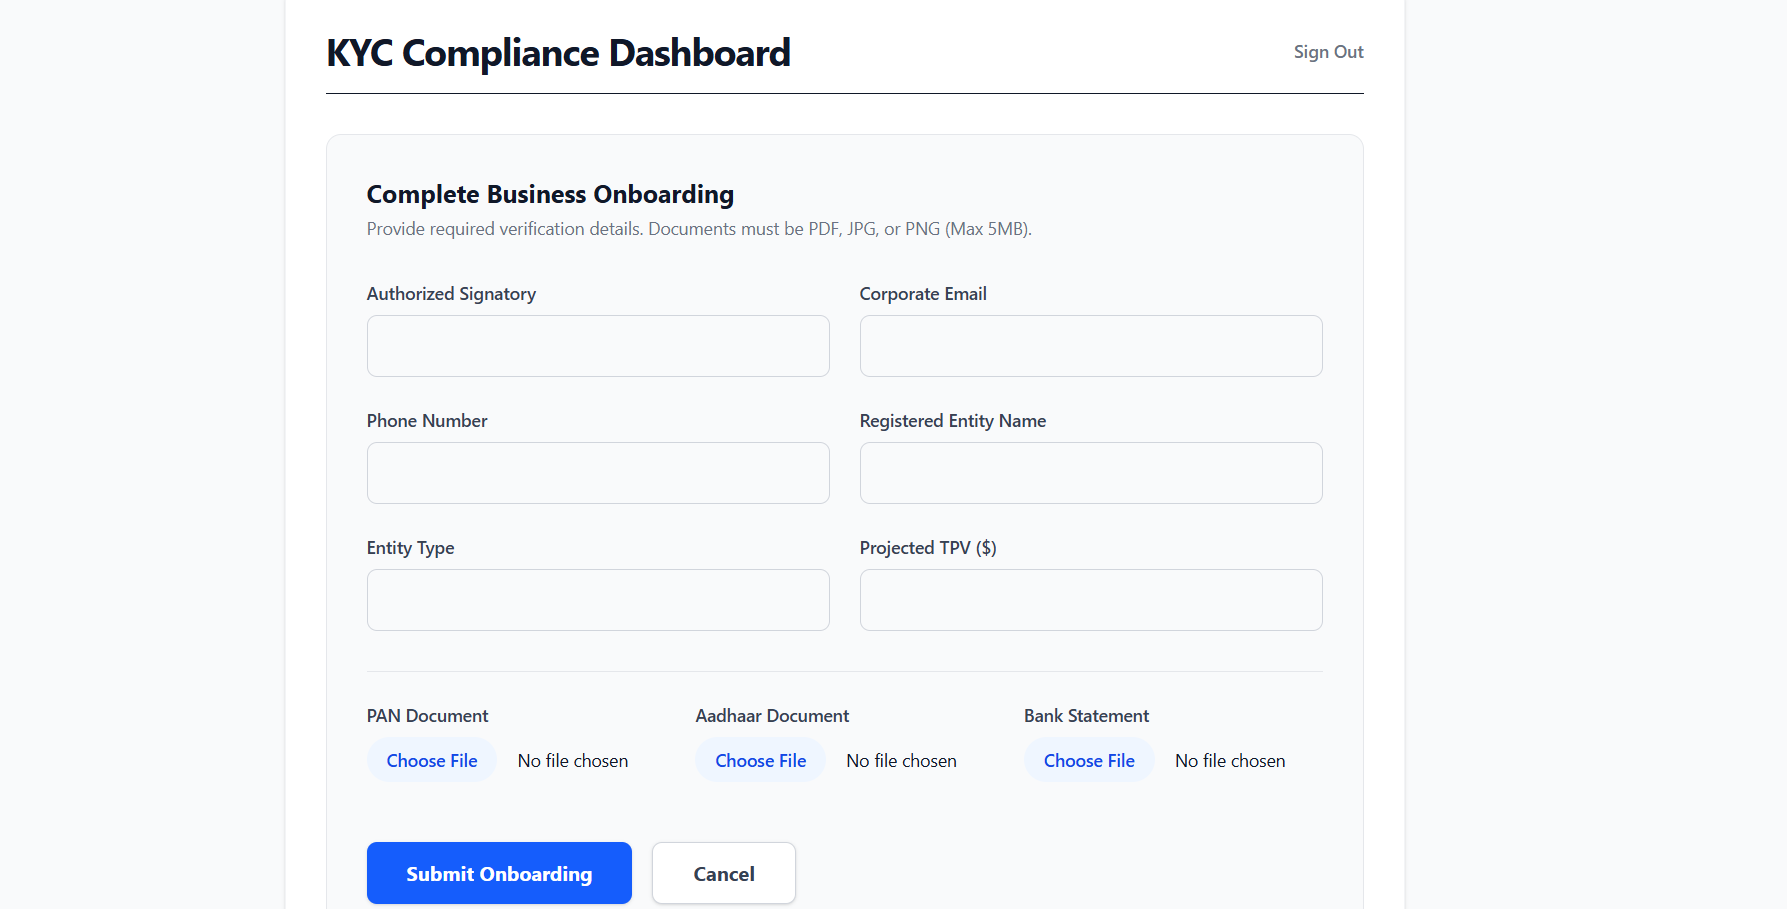
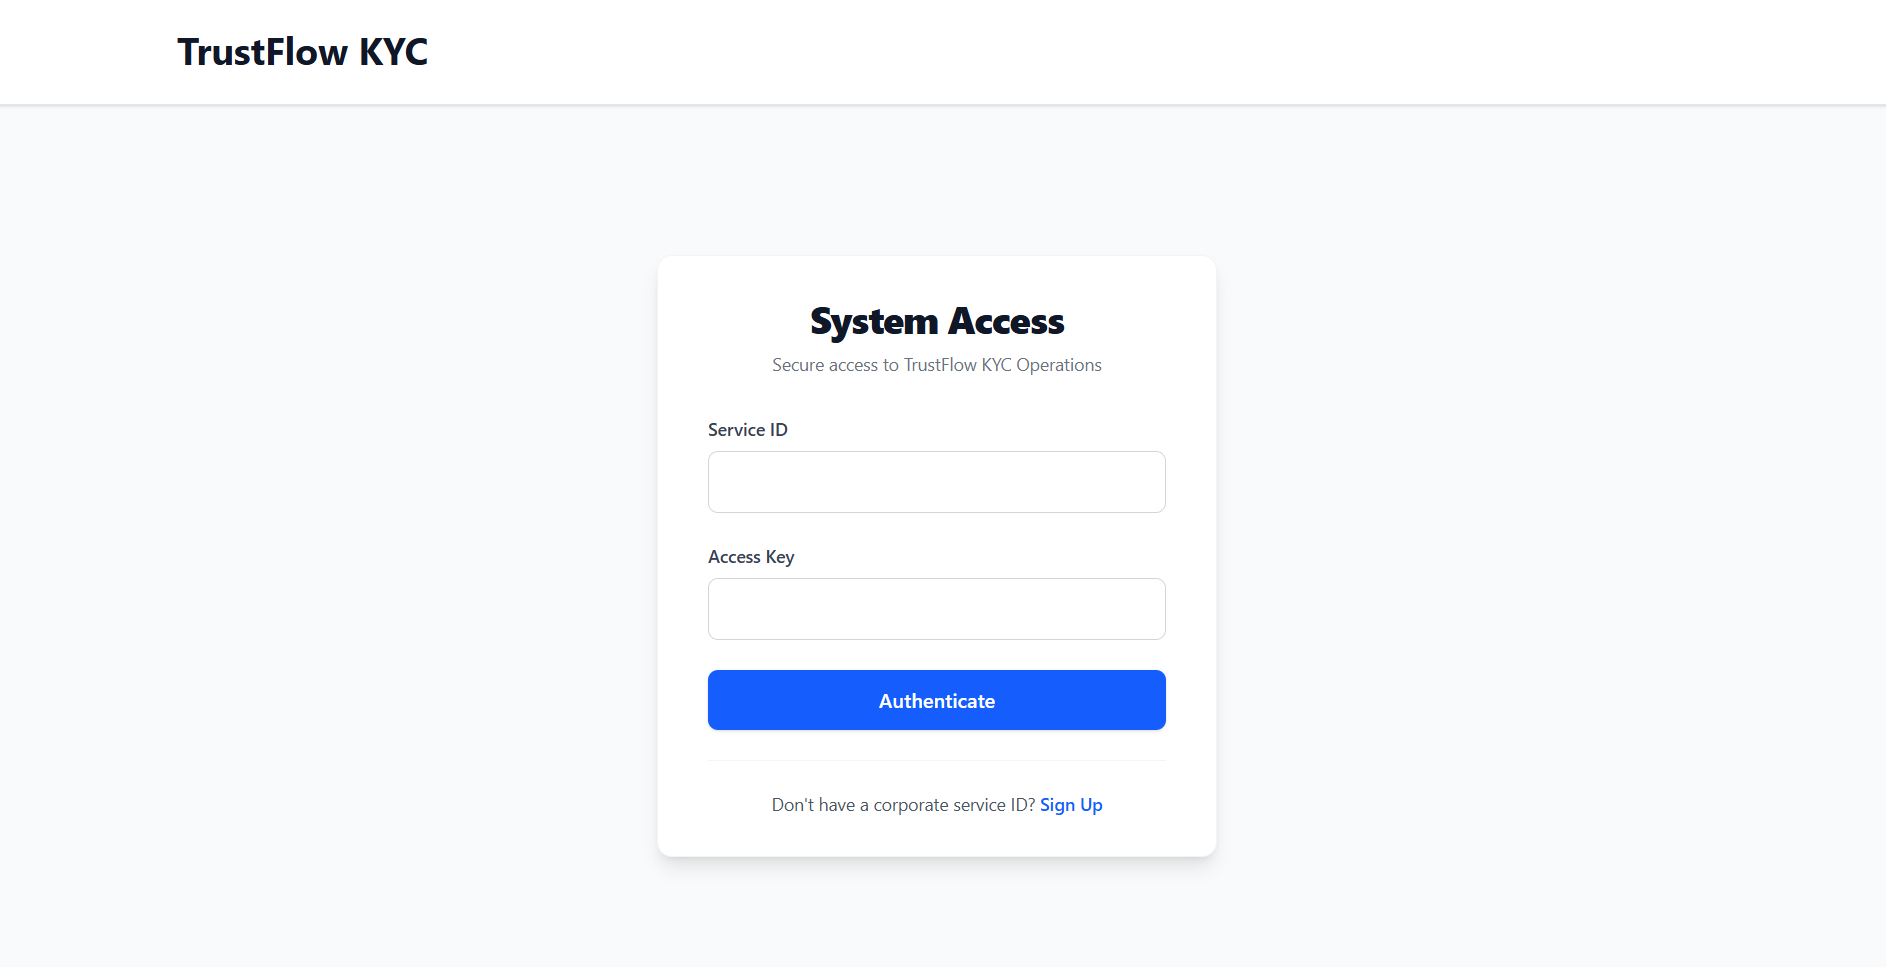
Updated the KYC project details

diff --git a/templates/index.html b/templates/index.html
@@ -385,7 +385,7 @@
 								<img src="/static/img/portfolio-3WD.png" alt="Project-3WD" />
 							</div>
 							<div class="portfolio-text">
-								<a href="https://kyc-abhi.vercel.app/login" target="_blank">
+								<a href="https://trustflow-kyc.vercel.app/login" target="_blank">
 									<h3>KYC Website</h3>
 								</a>
 								<a
